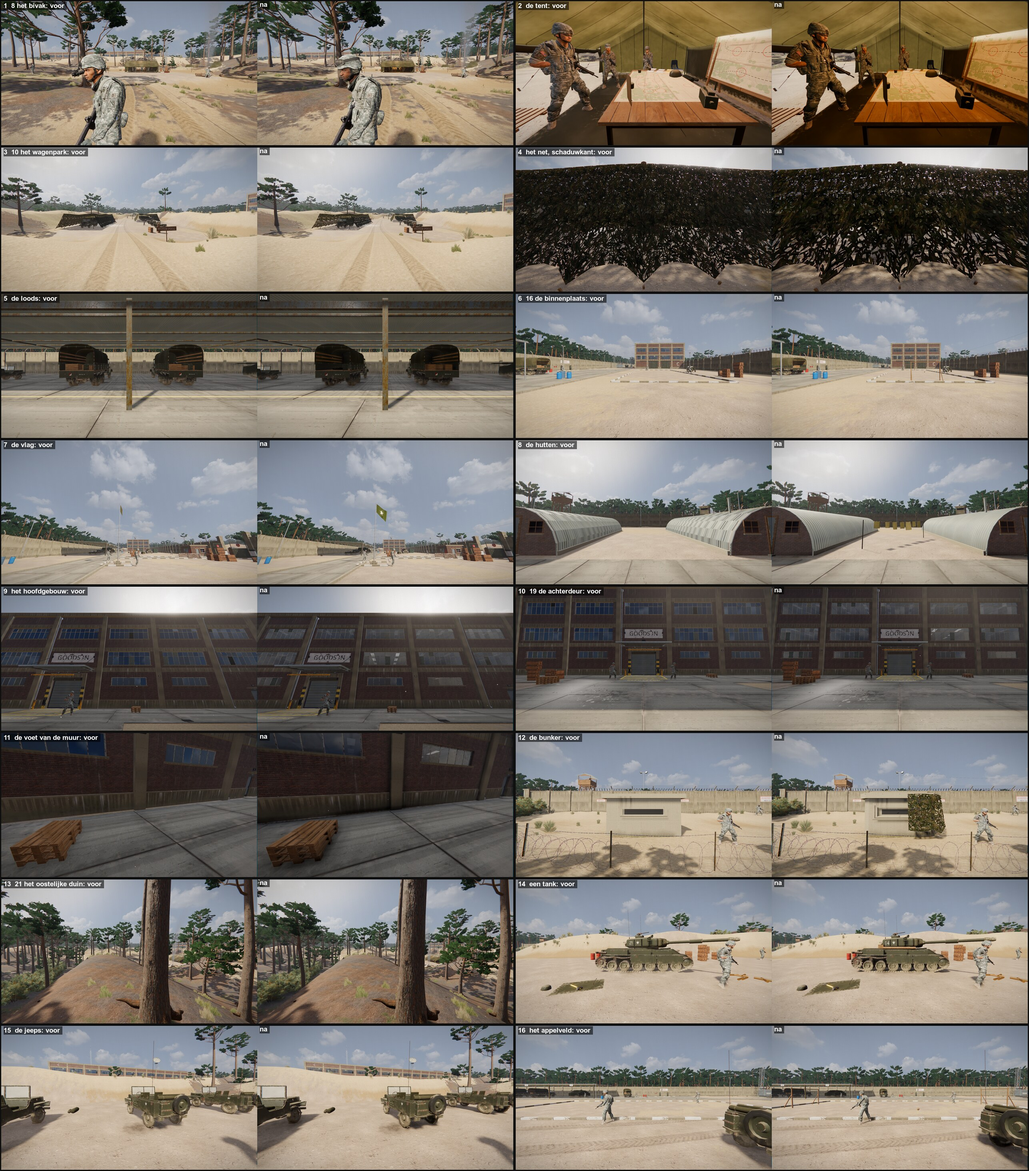
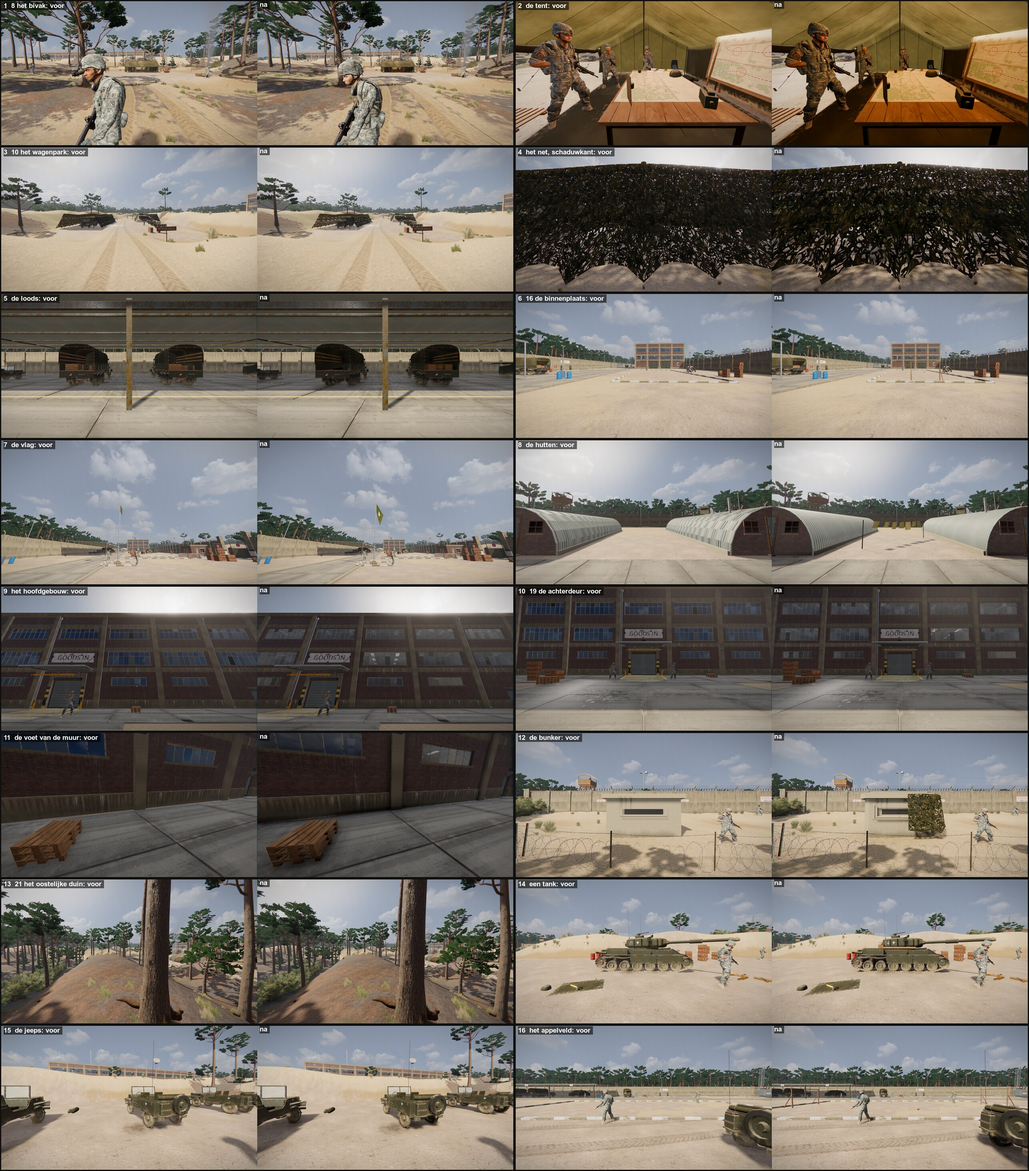
File the proposal for the sun at 48, 30 and 20 degrees
One sheet, four standpoints a row, with how much of the land lies in
the shade then as the builder says it, and the sky that would go with
each. Nothing of it is built in.

diff --git a/PLAN.md b/PLAN.md
@@ -2634,8 +2634,17 @@ Op 13 oktober 2026 gevraagd, als een van drie opdrachten die tegelijk aan de dui
 **Niet gedaan, en waarom**
 
 - **De lucht op 8k** (punt 1). Dat is een download (Poly Haven, CC0, 74,8 MB); ik heb erom gevraagd en geen antwoord gekregen, en heb niets opgehaald. Wat er klaar voor ligt: het bestand vervangt `assets/hdri/kloofendal_48d_partly_cloudy_puresky.hdr`; ingepakt kost het ongeveer 45 MB videogeheugen waar het nu 11 is. De luchten staan niet in LFS en GitHub waarschuwt boven 50 MB per bestand.
-- **Het blad met de zon op 48, 30 en 20 graden** (punt 4). Het gereedschap is geschreven, het blad is er niet: toen het aan de beurt was speelde Michiel en was de GPU niet vrij. Zie "Nog open".
 - **De soldaten aan de kaarttafel overleggen niet** (punt 5). Welke houding iemand in rust heeft, kiest `scripts/humanoid_rig.gd` uit de set van zijn thema, en wat een wachter doet leest `scripts/enemy.gd` uit wat het level hem meegeeft. Het level kan zeggen "sta hier en kijk daarheen", niet "praat". Zonder die twee bestanden gaat het niet, en die zijn van het wedstrijdwerk.
+
+**Het voorstel voor de zon** (punt 4, niet ingebouwd): `benchmark/sheets/dunes_sun_proposal.jpg`. De zon op 48 graden (nu), 30 en 20, elk vanaf het bos, de vallei, het bivak en de binnenplaats, het level telkens opnieuw gebouwd met de zon op die hoogte:
+
+| Zon | Land in de schaduw, volgens de bouwer | Lucht die erbij zou horen (Poly Haven, CC0) |
+|---|---|---|
+| 48 graden, nu | 17% | `kloofendal_48d_partly_cloudy_puresky`, die er is |
+| 30 graden | 24% | `kloofendal_28d_misty_puresky`: dezelfde plek, heiig; 56 MB op 8k |
+| 20 graden | 33% | `syferfontein_18d_clear_puresky`: helder; 55 MB op 8k |
+
+  Op het blad staat in alle drie de rijen de lucht van 48 graden: de andere twee zijn niet opgehaald (gevraagd, geen antwoord), dus de wolken en de plek van de zon in de lucht kloppen daar niet met de schaduwen. De kleur en de kracht van de zon zijn voor 30 en 20 graden met de hand warmer en zwakker gezet (1, 0,9, 0,74 op 3,5 en 1, 0,84, 0,64 op 3,0). Wat een lagere zon doet: langere schaduwen, meer reliëf in het zand en de ribbels, een donkerder bos, en twee keer zoveel plek om ongezien te staan. Dat laatste raakt het sluipen: een wachter ziet iemand in de schaduw pas op 7,5 m. Michiel kiest.
 
 **Wat er staat**
 
@@ -2667,6 +2676,7 @@ De drie ronden van een kant lagen nooit meer dan één beeld per seconde uit elk
 
 - **Het budget is op drie van de vijf gehaald en op twee net niet.** De twee traagste standpunten, het oostelijke duin en het bivak, zijn gelijk of beter; het wagenpark, waar het model voor veraf voor bedoeld was, wint 0,6 en tekent een kwart miljoen driehoeken minder. De binnenplaats en de achterdeur, de twee snelste, verliezen 0,7 en 0,5: daar staat wat er het meest bij kwam (het glas met zijn kamers, de vlag, de was, de doelen, de sterkere occlusie). Wat daarvan hoeveel kost is niet uitgezocht.
 - **Een ronde eerder die middag** (18:33, op de accu, 59%, load 4,5) gaf hetzelfde beeld: +0,1, +0,6, −0,9, −0,9 en +0,9. Daarna zijn de doelen en de draden bij het kleine goed gezet, dat geen schaduw werpt.
+- **Mijn eigen tijdslimiet hield de GPU bezet.** Elke run die ik onder het GPU-slot startte had een bewaker ernaast (`( sleep 240; kill $pid ) &`). Die bewaker erft het slot, en zijn `sleep` leeft door als de run klaar is: na elke run van mij bleef het slot tot vier minuten dicht (na een meetrun zeven), en één keer negentien minuten, voor iedereen. De andere sessies gebruiken dezelfde regel. Zo'n bewaker moet het slot loslaten: `( sleep 240; kill $pid ) 9>&- &`. Gevonden met `lsof` op het slotbestand toen vier runs stonden te wachten op niemand.
 - **Een reeks van drie ronden daartussen is mislukt**: ze liep van 20:15 tot 20:27 naast het spel van Michiel, die om 20:13 de fabriek startte. Ik had met `ps` gekeken voor ik de reeks in de rij voor de GPU zette, en niet meer toen ze twee uur later begon. Alles halveerde, aan beide kanten (37 tegen 37, 40 tegen 42, 46 tegen 42, 47 tegen 46, 34 tegen 33). Niets waard, en het heeft hem tien minuten beeldsnelheid gekost.
 - **Pipelines tijdens het tekenen**: op het eerste standpunt, dat geen laadscherm heeft, 103 waar het er 97 waren; op de vier daarna geen. Een rondgang vanaf het titelscherm is niet gelopen.
 - **Niet gemeten**: aan de eigen lader en op een stille laptop, in beweging, in een gevecht, en wat de acht probes, het glas en de sterkere occlusie elk kosten.
@@ -2704,8 +2714,7 @@ De drie ronden van een kant lagen nooit meer dan één beeld per seconde uit elk
 
 **Nog open**
 
-- **De lucht op 8k** en **het blad met de zonnestanden**: zie bovenaan. Het blad maakt `sun_variant.sh` uit de scratchmap van deze sessie; dat hoort als gereedschap in `tools/` als het blad er komt. Bij 30 graden zou `kloofendal_28d_misty_puresky` horen (zelfde plek, heiig), bij 20 graden `syferfontein_18d_clear_puresky` (helder); elk 55 MB op 8k, CC0, niet opgehaald.
-- **Drie ronden meten, om en om, als de GPU vrij is**, en het blad met voor en na (`benchmark/sheets/dunes_kamp_before_after.jpg`), dat er nog niet is.
+- **De lucht op 8k**: zie bovenaan. En als Michiel een lagere zon kiest: de lucht die erbij hoort, `SUN_RISE` in `tools/levels/dunes/plan.gd`, de stand en de kleur van de zon in `scenes/dunes.tscn`, en `sunward` in `materials/depot_concrete.tres`. Het blad is gemaakt met twee losse scripts in de scratchmap van deze sessie (een kopie van de worktree per zonnestand, gebouwd en gefotografeerd); dat is geen gereedschap geworden.
 - **De wolk is niet gelijk voor wie samen speelt**: elke speler heeft zijn eigen klok.
 - **Wie aan de tafel staat, overlegt niet**: zie bovenaan.
 - **De schaduw van de wolk trekt niet over het land**; dat vraagt de shader van de grond.
